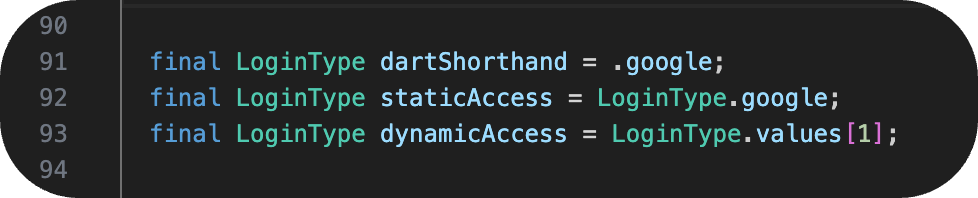
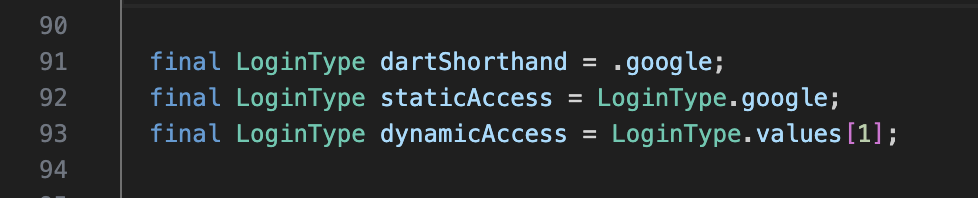
chore: bump to 1.0.0, add CI with coverage/codecov, and update badges

diff --git a/packages/stealth_enum_generator/example/example.dart b/packages/stealth_enum_generator/example/example.dart
@@ -3,11 +3,11 @@
 // 1. In your pubspec.yaml:
 //
 // dependencies:
-//   stealth_enum: ^0.1.1
+//   stealth_enum: ^1.0.0
 //
 // dev_dependencies:
 //   build_runner: ^2.4.0
-//   stealth_enum_generator: ^0.1.1
+//   stealth_enum_generator: ^1.0.0
 //
 // 2. In your Dart file:
 //

diff --git a/packages/stealth_enum/README.md b/packages/stealth_enum/README.md
@@ -4,6 +4,9 @@
   <a href="LICENSE"><img src="https://img.shields.io/badge/license-MIT-blue.svg" alt="License: MIT"></a>
   <a href="https://dart.dev"><img src="https://img.shields.io/badge/Dart-3.3%2B-blue?logo=dart" alt="Dart"></a>
   <a href="https://flutter.dev"><img src="https://img.shields.io/badge/Flutter-3.19%2B-blue?logo=flutter" alt="Flutter"></a>
+  <br>
+  <a href="https://codecov.io/gh/aslamambiloly/stealth_enum_workspace"><img src="https://codecov.io/gh/aslamambiloly/stealth_enum_workspace/graph/badge.svg" alt="codecov"></a>
+  <a href="https://app.codacy.com/gh/aslamambiloly/stealth_enum_workspace/dashboard"><img src="https://app.codacy.com/project/badge/Grade/stealth_enum_workspace" alt="Codacy Badge"></a>
 </p>
 
 <p align="center">
@@ -99,6 +102,16 @@ And enjoy using the **same enum class** with **same enum name** as if nothing ha
 
 ## Features
 
+
+- **Zero Binary String Footprint**: Completely removes enum and constant names from compiled AOT binaries.
+- **Non-Sequential Entropy**: Replaces predictable sequential indices with high-entropy 32-bit hex values.
+- **Zero Runtime Overhead**: Built on Dart 3.3+ `extension type const` over primitive `int` with zero heap allocation and zero boxing.
+- **Inlined Pattern Matching**: `@pragma('vm:prefer-inline')` on `.when()` and `.maybeWhen()` inlines branches directly into call sites.
+- **No `StateError` String Leaks**: The fallback branch in `.when()` uses a wildcard `_ =>` rather than throwing an exception with class names.
+- **Guaranteed Tree-Shaking**: The private annotated enum (`_MyEnum`) is discarded by the compiler; only the lightweight extension type remains.
+- **Deterministic CI Builds**: Optional compile-time `seed` parameter guarantees reproducible builds across team members and CI pipelines.
+- **Pure Dart**: Zero native code, zero CocoaPods or Gradle headaches.
+
 <div align="center">
 
 | Feature | Standard Dart `enum` | `@StealthEnum` |
@@ -112,14 +125,6 @@ And enjoy using the **same enum class** with **same enum name** as if nothing ha
 
 </div>
 
-- **Zero Binary String Footprint**: Completely removes enum and constant names from compiled AOT binaries.
-- **Non-Sequential Entropy**: Replaces predictable sequential indices with high-entropy 32-bit hex values.
-- **Zero Runtime Overhead**: Built on Dart 3.3+ `extension type const` over primitive `int` with zero heap allocation and zero boxing.
-- **Inlined Pattern Matching**: `@pragma('vm:prefer-inline')` on `.when()` and `.maybeWhen()` inlines branches directly into call sites.
-- **No `StateError` String Leaks**: The fallback branch in `.when()` uses a wildcard `_ =>` rather than throwing an exception with class names.
-- **Guaranteed Tree-Shaking**: The private annotated enum (`_MyEnum`) is discarded by the compiler; only the lightweight extension type remains.
-- **Deterministic CI Builds**: Optional compile-time `seed` parameter guarantees reproducible builds across team members and CI pipelines.
-- **Pure Dart**: Zero native code, zero CocoaPods or Gradle headaches.
 
 ## Getting started
 
@@ -127,11 +132,11 @@ Add `stealth_enum` to your `pubspec.yaml`:
 
 ```yaml
 dependencies:
-  stealth_enum: ^0.1.1
+  stealth_enum: ^1.0.0
 
 dev_dependencies:
   build_runner: ^2.4.0
-  stealth_enum_generator: ^0.1.1
+  stealth_enum_generator: ^1.0.0
 ```
 
 Then run:

diff --git a/packages/stealth_enum_generator/README.md b/packages/stealth_enum_generator/README.md
@@ -4,6 +4,9 @@
   <a href="LICENSE"><img src="https://img.shields.io/badge/license-MIT-blue.svg" alt="License: MIT"></a>
   <a href="https://dart.dev"><img src="https://img.shields.io/badge/Dart-3.3%2B-blue?logo=dart" alt="Dart"></a>
   <a href="https://flutter.dev"><img src="https://img.shields.io/badge/Flutter-3.19%2B-blue?logo=flutter" alt="Flutter"></a>
+  <br>
+  <a href="https://codecov.io/gh/aslamambiloly/stealth_enum_workspace"><img src="https://codecov.io/gh/aslamambiloly/stealth_enum_workspace/graph/badge.svg" alt="codecov"></a>
+  <a href="https://app.codacy.com/gh/aslamambiloly/stealth_enum_workspace/dashboard"><img src="https://app.codacy.com/project/badge/Grade/stealth_enum_workspace" alt="Codacy Badge"></a>
 </p>
 
 <p align="center">
@@ -20,11 +23,11 @@ Add `stealth_enum_generator` to your `dev_dependencies` alongside `build_runner`
 
 ```yaml
 dependencies:
-  stealth_enum: ^0.1.1
+  stealth_enum: ^1.0.0
 
 dev_dependencies:
   build_runner: ^2.4.0
-  stealth_enum_generator: ^0.1.1
+  stealth_enum_generator: ^1.0.0
 ```
 
 Then run:

diff --git a/packages/stealth_enum_generator/example/README.md b/packages/stealth_enum_generator/example/README.md
@@ -4,11 +4,11 @@ To use `stealth_enum_generator`, add it to your `dev_dependencies`:
 
 ```yaml
 dependencies:
-  stealth_enum: ^0.1.1
+  stealth_enum: ^1.0.0
 
 dev_dependencies:
   build_runner: ^2.4.0
-  stealth_enum_generator: ^0.1.1
+  stealth_enum_generator: ^1.0.0
 ```
 
 Annotate private enums with `@StealthEnum()`, then run:

diff --git a/packages/stealth_enum/CHANGELOG.md b/packages/stealth_enum/CHANGELOG.md
@@ -1,3 +1,9 @@
+## 1.0.0
+
+* Production ready 1.0.0 release.
+* Zero runtime overhead and complete enum metadata erasure in Flutter AOT binaries.
+* Full compatibility with Dart 3.3+ and Flutter 3.19+.
+
 ## 0.1.1
 
 * Added package example in `example/example.dart`.

diff --git a/packages/stealth_enum_generator/CHANGELOG.md b/packages/stealth_enum_generator/CHANGELOG.md
@@ -1,3 +1,8 @@
+## 1.0.0
+
+* Production ready 1.0.0 release.
+* Updated dependency to support `stealth_enum` ^1.0.0.
+
 ## 0.1.1
 
 * Added package example in `example/example.dart`.
